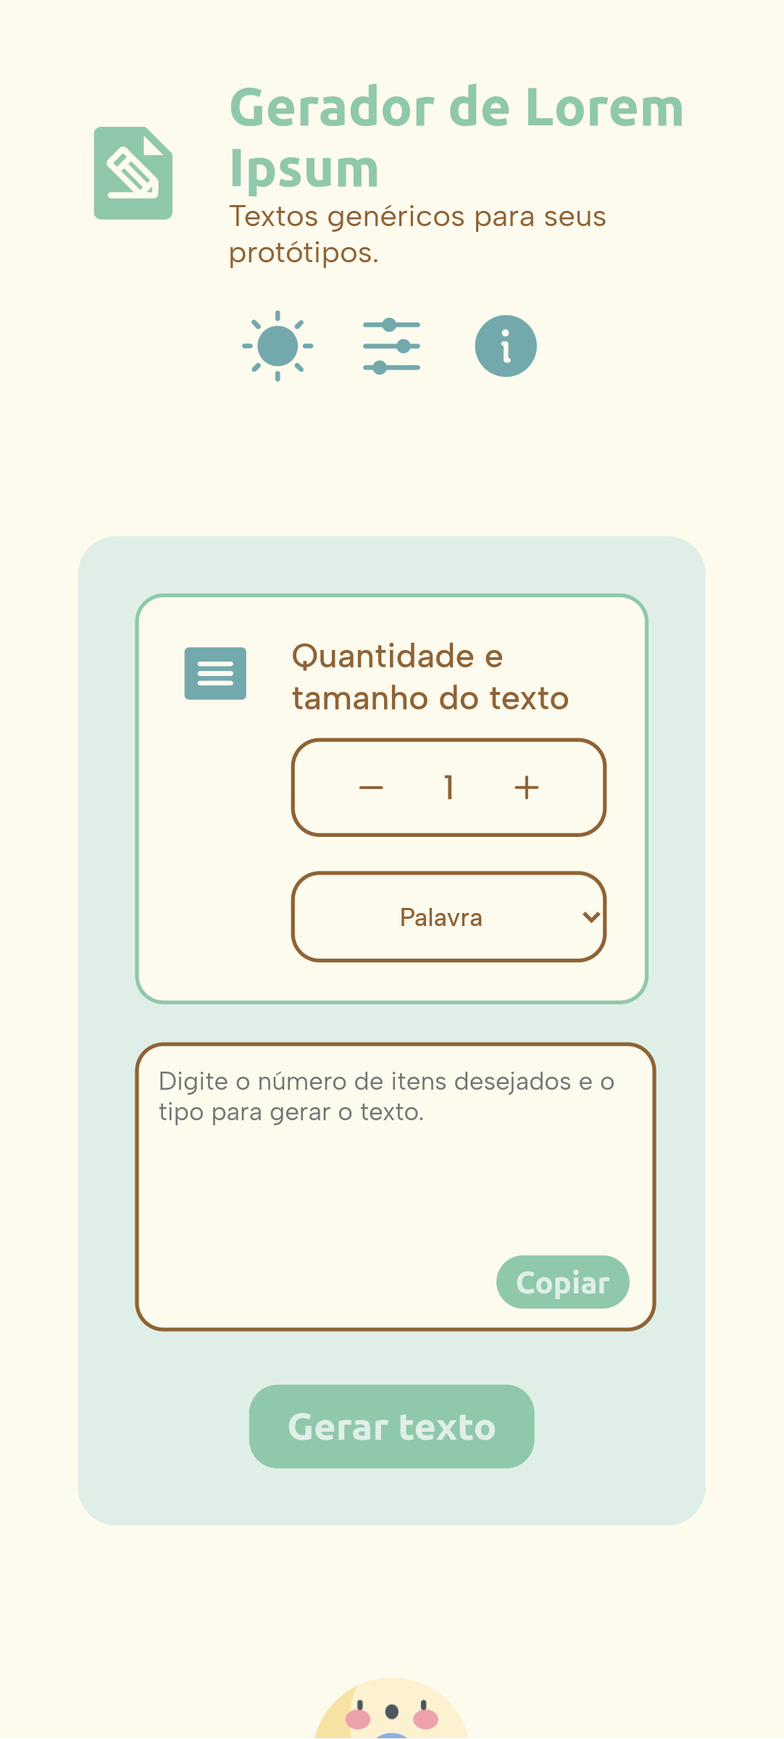
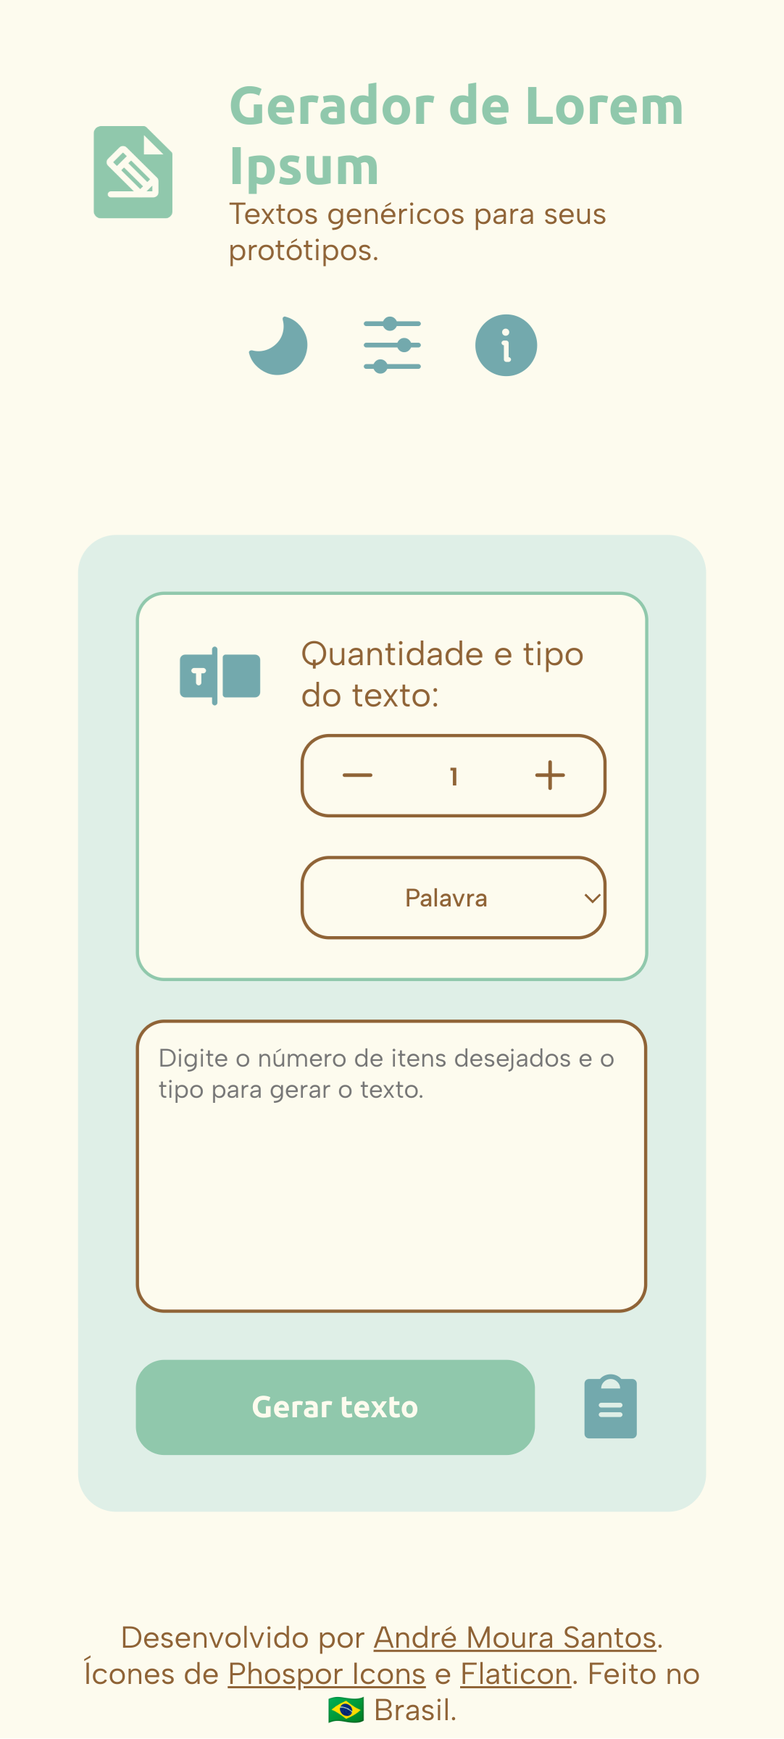
Atualização 2.5.2 - Gerador de Lorem Ipsum:    - A ferramenta agora entrega resultados mais satisfatórios na geração de textos para Palavras, Frases e Parágrafos.    - Diversas otimizações de código.    - Remodelagem da página para destacar mais a ferramenta.

diff --git a/gerador-de-lorem-ipsum/index.js b/gerador-de-lorem-ipsum/index.js
@@ -1,64 +1,111 @@
 //↓↓ INFO DA FERRAMENTA
 let Ferramenta = {
     nome: 'gerador-de-lorem-ipsum',
-    info: 'versao:1.3;temaDaPagina:Claro',
+    info: 'versao:1.4;temaDaPagina:Claro;',
     PUAU: 'acessibilidadeFonte:1;salvarDados:0;sincronizarTema:1;temaDoDispositivo:2;habilitarCookies:0'
 }
 
-//↓↓ CONFIGURAÇÕES
-const texto = [
-    'Lorem ipsum dolor sit amet consectetur adipisicing elit. Ab incidunt dolores sint velit! Non odio vel quam suscipit consectetur corrupti. Ea numquam neque culpa similique, ab expedita assumenda non ipsa unde nihil, autem doloribus earum reiciendis tempora.',
-    'Accusamus eaque voluptate, minus dolorem quia, fugit atque minima consequuntur qui at vel magnam quo assumenda inventore cumque, neque quaerat incidunt. Sunt iusto quasi explicabo asperiores ad magni, amet odio. Temporibus dolorem voluptatum ipsum. Suscipit totam tempora nesciunt voluptas, quam ut optio autem vel consequuntur!',
-    'At, ducimus nisi soluta vel autem suscipit tempore labore odio quas est quos excepturi. Odit illo magni asperiores pariatur nemo tempora veritatis quisquam provident ad eaque, sunt culpa reprehenderit a animi quam ullam fuga unde doloribus quo rerum voluptatem vel! Quia ullam soluta voluptatum quis quod perferendis nesciunt, tempora error quo nihil, recusandae nemo.',
-    'Saepe aliquid, voluptatum quam facilis nihil maiores cupiditate id impedit sapiente ea aliquam dicta velit quas assumenda. Facilis itaque aspernatur modi quis. Quisquam exercitationem, accusantium doloribus veniam tempora laborum sapiente minus minima mollitia sunt excepturi quia aspernatur cum aliquam ipsam totam ullam tenetur beatae sed voluptatum ut laboriosam, aliquid temporibus aperiam.',
-    'Dicta cum quasi error, nostrum repudiandae accusantium quos? Unde tempora, nesciunt libero cupiditate officia sapiente animi cumque recusandae, numquam ipsam hic ullam maxime molestias. Numquam libero at eveniet voluptas ipsa dicta quae maiores, necessitatibus corrupti optio suscipit quo quod iste odio hic laboriosam facilis delectus a beatae ad aliquam provident, veritatis doloribus consequuntur.',
-    'Quia quasi voluptatum itaque ullam est sunt facere dignissimos totam a nulla. Rem ducimus, est sequi repellendus quod quae veniam tempora aliquam ea voluptate a quos atque maiores voluptates facilis explicabo assumenda vero dolore commodi nisi fugit facere laborum excepturi?',
-    'Expedita similique autem adipisci totam quam numquam asperiores voluptatem corporis qui? Vero amet libero doloribus laboriosam excepturi molestiae illo cupiditate veritatis facilis deleniti quas eligendi nisi voluptatum tempora a saepe debitis, eum ipsa similique labore nulla voluptate vitae officia quo.',
-    'Dicta facere est corporis similique optio libero perferendis ducimus magnam, unde laborum a ad quasi error suscipit excepturi architecto, beatae iste quisquam molestias, perspiciatis quia! Nostrum consequuntur, ex nisi laborum dolor perspiciatis, quae doloremque excepturi assumenda molestiae laboriosam ut voluptates beatae non?',
-    'Fugit, officia consectetur voluptatem, est recusandae illo vel repellat, voluptatibus magni dolores amet aspernatur nemo. Vero molestiae odit unde, debitis, consectetur incidunt pariatur quidem velit ipsam voluptas iure veniam dolor quibusdam ab illum, aliquam error voluptatum labore perspiciatis quam.',
-    'Consequatur, veniam numquam nemo delectus fugiat quas aut minima commodi. Placeat quaerat iste pariatur ex fuga aspernatur sit, earum consequuntur est, inventore nobis quisquam eos hic doloremque nesciunt tempora cum voluptatem repellat.'
-]
-let quantidadeTexto = document.querySelector('#quantidade_txt');
-let tamanhoTexto = document.querySelector('#tamanho_txt')
-let opcoesTamanhoTexto = document.querySelectorAll("#tamano_txt > option").length
-let saida = document.querySelector('#saida_txt')
-let btnCopiarSaida = document.querySelector('#copiar_saida_txt')
+//↓↓ FERRAMENTA
+const Gerador = {
+    Interacoes: {
+        removerUm: document.querySelector('#removerQuantidadeTxt'),
+        adicionarUm: document.querySelector('#adicionarQuantidadeTxt'),
+        gerar: document.querySelector('#gerar_lorem'),
+        saida: document.querySelector('#saida_txt'),
+        copiarSaida: document.querySelector('#copiar_txt')
+    },
+    quantidadeTexto: document.querySelector('#quantidade_txt').value,
+    tipoTexto: document.querySelector('#tamanho_txt').value,
+    textoBase: [
+        'Lorem ipsum dolor sit, amet consectetur adipisicing elit. Maiores iste in, nesciunt vitae nihil itaque facere laborum quae consequatur reiciendis corrupti facilis nulla aspernatur tempore repellendus cum voluptatem praesentium optio sit, maxime illo laboriosam molestiae?',
+        'Hic distinctio nisi, corporis deserunt est esse facere quasi saepe! Aliquam repellat ratione natus enim molestiae cupiditate, beatae quas eligendi?',
+        'Et odit, nobis natus perferendis, iure atque mollitia similique dolorem repellendus enim nostrum veritatis doloremque sit numquam nulla molestiae!',
+        'Voluptas, veritatis dolore. Nesciunt iure temporibus delectus, dolor earum ullam possimus veniam repellat quia laudantium doloremque optio neque obcaecati omnis itaque ea harum animi minus et quibusdam distinctio a provident corporis enim.',
+        'Ea ipsam officiis quas modi quae earum quis qui, minus temporibus sed voluptates amet adipisci quos fuga asperiores animi explicabo expedita ipsa quia dolor, nulla, saepe neque?',
+        'Necessitatibus delectus cupiditate itaque soluta beatae quo corrupti, neque optio nam tempora quaerat? Nihil incidunt, reiciendis ullam ex recusandae assumenda alias quas repellendus eos.',
+        'Rem non ratione distinctio impedit velit, odio, explicabo recusandae, cumque adipisci quia amet qui. Dicta reiciendis error nemo velit cum quasi ea in omnis?',
+        'Dolor natus optio esse voluptates deleniti? Minus dolore sapiente voluptate molestiae beatae eos consectetur dignissimos nesciunt, reprehenderit, velit temporibus iusto voluptatum quaerat asperiores maxime neque architecto culpa molestias eum, blanditiis fugiat?',
+        'Repellat vitae dolore iste necessitatibus, fugit eius quo sunt libero eaque iure aliquam magni optio alias eligendi, qui nam praesentium voluptatum autem delectus culpa omnis ipsa hic sed quia?',
+        'Ipsum, quae? Iusto obcaecati exercitationem aspernatur suscipit explicabo eum!'
+    ],
+    gerar: (quantidade, tipo)=>{
+        const numerosSorteados = Array.from(new Array(Number(quantidade)), Math.random).map(valor => {return Math.round(Number(valor*10))})
+        for(i=0;i<quantidade;i++){if(numerosSorteados[i]>=Gerador.textoBase.length){numerosSorteados[i]=1}}
 
-//↓↓ ATALHOS DE TECLADO
-window.addEventListener('keydown', tecla => {if(tecla.code == 'KeyL' && tecla.altKey == true){abrirPopup('popup_log_novidades')}})
+        let texto = ''
+        switch (tipo) {
+            case 'palavra':
+                
+                for(i=0;i<Gerador.textoBase.length;i++){
+                    if(Gerador.textoBase[numerosSorteados[i]].replaceAll(/[.,!?]/g, '').split(' ').length >= quantidade){texto = Gerador.textoBase[numerosSorteados[i]].split(' '); break;}
+                }
 
-//↓↓ ACIONADORES
+                for(i=0;i<quantidade;i++){
+                    if(i==0){Gerador.Interacoes.saida.value += texto[i]}
+                    else if(i<quantidade-1){Gerador.Interacoes.saida.value += ` ${texto[i]}`}
+                    else {if(/[.,!?]/g.test(texto[i])){Gerador.Interacoes.saida.value += ` ${texto[i].replace(/[.,!?]/g,'.')}`} else {Gerador.Interacoes.saida.value += ` ${texto[i]}. `}}
+                }
+                break;
+        
+            case 'frase':
+                for(i=0;i<quantidade;i++){
+                    texto = Gerador.textoBase[numerosSorteados[i]].split(/[.!?]/g)
+                    Gerador.Interacoes.saida.value += `${texto[0]}.\n\n`
+                }
+                break;
+
+            case 'paragrafo':
+                for(i=0;i<quantidade;i++){
+                    texto = Gerador.textoBase[numerosSorteados[i]]
+                    Gerador.Interacoes.saida.value += `${texto}\n\n`
+                }
+                break;
+
+            default:
+                break;
+        }
+    },
+    copiar: ()=>{
+        //ÍCONES
+        botao = Gerador.Interacoes.copiarSaida
+        const Icones = {
+            copiar: 'ph-clipboard-text-fill',
+            copiado: 'ph-check-bold',
+            erro: 'ph-x-bold',
+            novo: ''
+        }
+
+        try {
+            navigator.clipboard.writeText(Gerador.Interacoes.saida.value)
+            Icones.novo = Icones.copiado
+        } catch (erro) {
+            Icones.novo = Icones.erro
+        }
+        
+        botao.classList = Icones.novo
+        setTimeout(() => {
+            botao.classList = Icones.copiar
+        }, 1500);
+    },
+    /*
+    salvar: ()=>{
+        const dados = Array.from(pegarDadosFerramenta('dadosSalvos').split(',')).map(item => {return item.split('=')})
+
+        dados[0][1] = Gerador.quantidadeTexto
+        dados[1][1] = Gerador.tipoTexto
+
+        dados[0] = dados[0].join('=')
+        dados[1] = dados[1].join('=')
+        pegarDadosLocais('dadosSalvos', dados.join(','))
+    }*/
+}
+
+//↓↓ ADICONADORES
 document.querySelector('#alteraTemaPagina').addEventListener('click', ()=>{alterarTema(1)})
-
 document.querySelector('#icone_Ajustes').addEventListener('click', ()=>{abrirPopup('popup_puau')})
-
 document.querySelector('#icone_Info').addEventListener('click', ()=>{abrirPopup('popup_sobre')})
 
-btnCopiarSaida.addEventListener('click', () => {saida = document.querySelector('#saida_txt'); navigator.clipboard.writeText(saida.value); btnCopiarSaida.innerHTML = 'Copiado!'; setTimeout(()=>{btnCopiarSaida.innerHTML = 'Copiar'},1000)})
-
-//↓↓ FERRAMENTA
-document.querySelector('#adicionarQuantidadeTxt').addEventListener('click', ()=>{quantidadeTexto.stepUp()})
-document.querySelector('#removerQuantidadeTxt').addEventListener('click', ()=>{quantidadeTexto.stepDown()})
-
-
-document.querySelector('#gerar_lorem').addEventListener('click', ()=>{quantidadeTexto = document.querySelector('#quantidade_txt'); tamanhoTexto = document.querySelector('#tamanho_txt'); gerarLorem(quantidadeTexto.value, tamanhoTexto.value);})
-
-function gerarLorem(quantidade,tamanho) {
-    const n = Array.from(new Array(Number(quantidade)),Math.random).map(value => {return Number((value*10).toString().split('.',1))})
-    saida.value = '';
-
-    switch (tamanho) {
-        case 'palavra':
-            for(i=0;i<quantidade;i++){saida.value += `${texto[n[i]].split(' ',1).toString()} `}
-            break;
-        case 'frase':
-            for(i=0;i<quantidade;i++){saida.value += `${texto[n[i]].split('.',1).toString()}. `}
-            break;
-        case 'paragrafo':
-            for(i=0;i<quantidade;i++){saida.value += `${texto[n[i]]} `;}
-            break;
-        default:
-            saida.value = texto[0]
-            break;
-    }
-}
+Gerador.Interacoes.removerUm.addEventListener('click', ()=>{document.querySelector('#quantidade_txt').stepDown()})
+Gerador.Interacoes.adicionarUm.addEventListener('click', ()=>{document.querySelector('#quantidade_txt').stepUp()})
+Gerador.Interacoes.gerar.addEventListener('click', ()=>{Gerador.quantidadeTexto = document.querySelector('#quantidade_txt').value; Gerador.tipoTexto = document.querySelector('#tamanho_txt').value; Gerador.gerar(Gerador.quantidadeTexto, Gerador.tipoTexto)})
+Gerador.Interacoes.copiarSaida.addEventListener('click', ()=>{Gerador.copiar()})

diff --git a/gerador-de-lorem-ipsum/index.html b/gerador-de-lorem-ipsum/index.html
@@ -53,43 +53,31 @@
     <main class="duas_colunas">
         <!--ESQUERDA/CIMA-->
         <section id="container_ferramenta" class="principal">
-            <div id="ferramenta">
-                <div id="entrada_1">
-                    <i class="ph-article-fill"></i>
-                    <div>
-                        <p>Quantidade e tamanho do texto</p>
-                        <div>
-                            <div id="entrada_quantidade_txt" class="entrada_ferramenta">
-                                <button class="icone_aux_entrada" id="removerQuantidadeTxt"><i class="ph-minus-bold" title="Diminuir quantidade em um"></i></button>
-
-                                <input type="number" name="quantidade_txt" id="quantidade_txt" value="1" max="20" min="1" step="1">
-
-                                <button class="icone_aux_entrada" id="adicionarQuantidadeTxt"><i class="ph-plus-bold" title="Aumentar quantidade em um"></i></button>
+            <article id="ferramenta">
+                <section class="ferramenta_entrada">
+                    <i class="ph-textbox-fill"></i>
+                    <section>
+                        <p>Quantidade e tipo do texto:</p>
+                        <div id="entradas_tamanho_tipo">
+                            <div id="quantidadeTexto">
+                                <button><i id="removerQuantidadeTxt" class="ph-minus-bold" title="Remover uma unidade"></i></button>
+                                <input id="quantidade_txt" type="number" readonly value="1" step="1" min="1" max="25">
+                                <button><i id="adicionarQuantidadeTxt" class="ph-plus-bold" title="Adicionar uma unidade"></i></button>
                             </div>
-                            <select name="tamanho_txt" id="tamanho_txt" class="entrada_ferramenta">
+                            <select id="tamanho_txt">
                                 <option value="palavra">Palavra</option>
                                 <option value="frase">Frase</option>
                                 <option value="paragrafo">Parágrafo</option>
                             </select>
                         </div>
-                    </div>
+                    </section>
+                </section>
+                <textarea name="saida_txt" id="saida_txt" cols="20" rows="8" autocomplete="off" autocorrect="off" placeholder="Digite o número de itens desejados e o tipo para gerar o texto." style="resize: none;"></textarea>
+                <div class="container_btns_popup">
+                    <button id="gerar_lorem" class="btn_acao_ferramenta">Gerar texto</button>
+                    <button class="btn_menu_icone"><i id="copiar_txt" class="ph-clipboard-text-fill" title="Copiar para área de transferência"></i></button>
                 </div>
-                <div id="saida">
-                    <textarea name="saida_txt" id="saida_txt" cols="20" rows="8" autocomplete="off" autocorrect="off" placeholder="Digite o número de itens desejados e o tipo para gerar o texto." style="resize: none;"></textarea>
-                    <button id="copiar_saida_txt" class="btn_acao">Copiar</button>
-                </div>
-                <button id="gerar_lorem" class="btn_acao_ferramenta">Gerar texto</button>
             </div>
-        </section>
-
-        <!--DIREITA/BAIXO-->
-        <section id="informacoes" class="principal">
-            <article id="container_informacoes">
-                <img loading="lazy" src="https://apps.andremourasantos.com/imagens/questao.png" alt="Ícone de pergunta." height="96" width="96">
-                <h2>Como funciona?</h2>
-                <p>Para criar um texto Lorem Ipsum para o seu projeto, basta selecionar o tipo de texto desejado (escolhendo entre apenas palavras, frases ou parágrafos inteiros) e, em seguida, digitar a quantidade de itens. Você pode copiar o resultado clicando no botão "Copiar".</p>
-                <p>Muito comumente utilizados em protótipos e designs para popular áreas de conteúdos, o texto Lorem Ipsum vem de uma obra de Cícero, 45 AC, intitulada "De finibus bonorum et malorum" (Sobre os fins do bem e do mal), que fala sobre ética.</p>
-            </article>
         </section>
     </main>
     <footer>
@@ -103,8 +91,8 @@
             <img loading="lazy" src="https://apps.andremourasantos.com/imagens/sobre_popup.png" alt="" height="128" width="128">
             <aside>
                 <h2>Sobre o projeto</h2>
-                <p>O objetivo deste projeto é aprofundar meus conhecimentos com a criação em série de páginas similares, mas com funcionalidades diferentes.</p>
-                <p>Confira as últimas novidades da ferramenta <span style="text-decoration: underline; cursor: pointer;" onclick="abrirPopup('popup_log_novidades')">clicando aqui</span> ou pressione Alt + L!</p>
+                <p>Muito comumente utilizado em protótipos e designs para popular áreas de conteúdos, o texto Lorem Ipsum vem de uma obra de Cícero, 45 AC, intitulada "De finibus bonorum et malorum" (Sobre os fins do bem e do mal), que fala sobre ética.</p>
+                <p>Confira as últimas novidades da ferramenta <span style="text-decoration: underline; cursor: pointer;" onclick="abrirPopup('popup_log_novidades')">clicando aqui</span>.</p>
                 <p>Todo o código da página é de livre acesso e se encontra no repositório do GitHub de André Moura Santos, com licença MIT.</p>
                 <div class="container_btns_popup">
                     <button class="btn_popup btn_fechar_popup" onclick="fecharPopup('popup_sobre')">Fechar</button>
@@ -118,9 +106,7 @@
             <img loading="lazy" src="https://apps.andremourasantos.com/imagens/novidades_versao.png" alt="" height="128" width="128">
             <aside>
                 <h2>Tem novidade desde a sua última visita!</h2>
-                <p><strong class="puau_acessibilidade"><i class="ph-person-simple-bold"></i>Acessibilidade:</strong> Você agora pode selecionar uma fonte para facilitar a leitura da tela no <span class="interacao" onclick="abrirPopup('popup_puau')">Painel Universal de Ajustes do Usuário</span>.</p>
-                <p><strong>Conheça o PUAU:</strong> O novo <span class="interacao" onclick="abrirPopup('popup_puau')"><em>Painel Universal de Ajustes do Usuário</em></span> está disponvível agora nesta página! Com ele você pode salvar suas preferências de uso e muito mais.</p>
-                <p><strong>Tema da página sincronizado:</strong> Agora, o tema que você escolher para esta página será sincronizado com todas as outras ferramentas que suportam essa função.</p>
+                <p><strong>Melhorias gerais:</strong> A ferramenta agora entrega resultados mais satisfatórios na geração de textos para Palavras, Frases e Parágrafos.</p>
                 <p>O que achou das novidades? Você pode conferir as mudanças mais técnicas diretamente no meu <span class="interacao" onclick="abrirPopup('popup_sobre')">repositório do GitHub</span>!</p>
                 <div class="container_btns_popup">
                     <button class="btn_popup btn_fechar_popup" onclick="fecharPopup('popup_log_novidades')">Fechar</button>

diff --git a/gerador-de-lorem-ipsum/index.css b/gerador-de-lorem-ipsum/index.css
@@ -1,42 +1,70 @@
-/*↓ ÍCONES ↓*/
-#icones_cabecalho > button:nth-child(2) i {transform: rotate(90deg);}
-
-/*↓ CONTEÚDO ↓*/
-    /*↓ FERRAMENTA ↓*/
-    /*CONTAINER*/
-    #ferramenta {background-color: var(--cor_plano_de_fundo_3); max-width: 60%; width: fit-content; margin: auto; border-radius: var(--arredondamento_borda); padding: 10px 30px;}
-
-    /*ENTRADA 1*/
-    #entrada_1 {display: flex; margin: 20px auto; background-color: var(--cor_plano_de_fundo); border: 2px solid var(--cor_borda_principal); border-radius: var(--arredondamento_borda_interno); padding: 20px; gap: 20px;}
-    #entrada_1 p, #tamanho_txt > option {font-weight: 500;}
-
-        /*CONTAINER*/
-        #entrada_1 > div > div {display: flex; flex-wrap: wrap; gap: 18px;}
-        #entrada_1 > div > p {margin-bottom: 10px;}
-        #entrada_1 .entrada_ferramenta {padding: 8px 16px; border-radius: var(--arredondamento_borda_interno); border: 2px solid var(--cor_borda_secundaria); background-color: var(--cor_plano_de_fundo); color: var(--cor_texto); font-weight: 500; text-align: center;}
-        #tamanho_txt {flex-grow: 1;}
-    
-        /*ENTRADA: QUANTIDADE DE TEXTO*/
-        #entrada_quantidade_txt {display: flex; align-items: center; justify-content: space-evenly;}
-        button.icone_aux_entrada {padding: 0; margin-top: 3px;}
-        .icone_aux_entrada > i {font-size: var(--tamanho_texto_p); color: var(--cor_borda_secundaria)}
-        #quantidade_txt {background-color: var(--cor_plano_de_fundo); border: none; text-align: center; font-size: var(--tamanho_texto_m); color: var(--cor_texto); font-weight: 500;}
-
-    /*AÇÃO*/
-    #gerar_lorem {padding: 10px 20px; font-size: var(--tamanho_texto_g); margin: 0 auto 20px auto;}
-
-    /*↓ SAÍDA ↓*/
-    #saida {margin: auto;}
-    #saida > * {margin: auto; display: block;}
-    #saida_txt {margin: auto; background-color: var(--cor_plano_de_fundo); border: 2px solid var(--cor_borda_secundaria); border-radius: var(--arredondamento_borda_interno); padding: 10px; width: calc(100% - 20px); color: var(--cor_texto);}
-    #copiar_saida_txt {margin: 0 0 0 auto; position: relative; right: 10px; bottom: 40px;}
-
-/*↓ RESPONSIVIDADE ↓*/
-@media screen and (max-width: 768px){
-    #ferramenta {max-width: fit-content;}
+/*↓ FERRAMENTA ↓*/
+#entradas_tamanho_tipo {
+    display: flex;
+    gap: 20px;
 }
 
-@media screen and (max-width: 425px){
-    #entrada_1 > div > div > * {flex-grow: 1;}
-    #entrada_1 .entrada_ferramenta {padding: 13px 16px; flex-grow: 1;}
+#entradas_tamanho_tipo > * {
+    display: flex;
+    flex-basis: 1;
+    width: 100%;
+}
+
+#quantidadeTexto {
+    display: flex;
+    align-items: center;
+    justify-content: space-around;
+    height: 30px;
+    padding: 5px 10px;
+    border: 2px solid var(--cor_borda_secundaria);
+    background-color: transparent;
+    border-radius: var(--arredondamento_borda_interno);
+}
+
+#quantidadeTexto > button {display: flex; align-items: center; justify-content: center; width: 20px;}
+
+#quantidadeTexto i {font-size: 20px; color: var(--cor_texto);}
+
+#quantidadeTexto > input {
+    width: 30px;
+    height: 30px;
+    background: transparent;
+    border: none;
+    color: var(--cor_texto);
+    text-align: center;
+    font-weight: bold;
+}
+
+#tamanho_txt {
+    height: 44px;
+    width: 100%;
+    border: 2px solid var(--cor_borda_secundaria);
+    background-color: transparent;
+    border-radius: var(--arredondamento_borda_interno);
+    color: var(--cor_texto);
+    text-align: center;
+    font-weight: 500;
+}
+
+#saida_txt {
+    width: calc(100% - 25px);
+    margin-bottom: 20px;
+    padding: 10px;
+    border: 2px solid var(--cor_borda_secundaria);
+    background-color: var(--cor_plano_de_fundo);
+    border-radius: var(--arredondamento_borda_interno);
+    color: var(--cor_texto);
+}
+
+#ferramenta div.container_btns_popup {
+    margin: 0 auto 20px auto;
+}
+
+#ferramenta div.container_btns_popup > * {
+    margin: auto;
+}
+
+/*↓ RESPOSIVIDADE ↓*/
+@media screen and (max-width: 425px) {
+    #entradas_tamanho_tipo {flex-wrap: wrap;}
 }

diff --git a/link-de-whatsapp/script.js b/link-de-whatsapp/script.js
@@ -113,7 +113,7 @@ let LinkdeWhatsApp = {
         botao = document.querySelector('#copiar_link_btn')
         icone = document.querySelector('#copiar_link_btn > i')
         iconeCopiar = 'ph-clipboard-text-fill'
-        iconeVerificado = 'ph-check-fill'
+        iconeVerificado = 'ph-check-bold'
 
         navigator.clipboard.writeText(LinkdeWhatsApp.link)
         setTimeout(()=>{

diff --git a/gerador-de-lorem-ipsum/README.md b/gerador-de-lorem-ipsum/README.md
@@ -10,10 +10,19 @@ Uma simples ferramenta para criar textos de Lorem Ipsum para popular áreas de c
 - Utilizar uma biblioteca de ícones de terceiros em meus projetos.
 - Criar interações mais lógicas para funções que já havia utilizado.
 - Aprofundei meus conhecimentos no uso da declaração Switch e na identificação de bons casos de uso.
+- Utilizar objetos para faciltiar a interação entre HTML e JS.
+- Comecei a aprender mais sobre como utilizar Regex para filtrar textos.
 
 - - - 
 
 ## Log
+- **Atualização 1.4**
+    - A ferramenta agora entrega resultados mais satisfatórios na geração de textos para Palavras, Frases e Parágrafos.
+    - Diversas otimizações de código.
+    - Remodelagem da página para destacar mais a ferramenta.
+
+- **Atualização 1.2/1.3**
+    - Agora a ferramenta será inteiramente integrada na minha página de ferramentas.
 
 - **Atualização 1.1**
     - Adicioando PUAU.

diff --git a/README.md b/README.md
@@ -16,6 +16,12 @@ Esse site agrupa todas as ferramentas criadas por mim, bem como recursos e outro
 - - - 
 
 ## Log
+- **Atualização 2.5.2**
+    - **Gerador de Lorem Ipsum:**
+        - A ferramenta agora entrega resultados mais satisfatórios na geração de textos para Palavras, Frases e Parágrafos.
+        - Diversas otimizações de código.
+        - Remodelagem da página para destacar mais a ferramenta.
+
 - **Atualização 2.5.1**
     - A opção do PUAU "Tema do dispositivo" foi alterada para cód. 1 em todas as páginas.
     - Ajustes na disposição das opções do PUAU.
